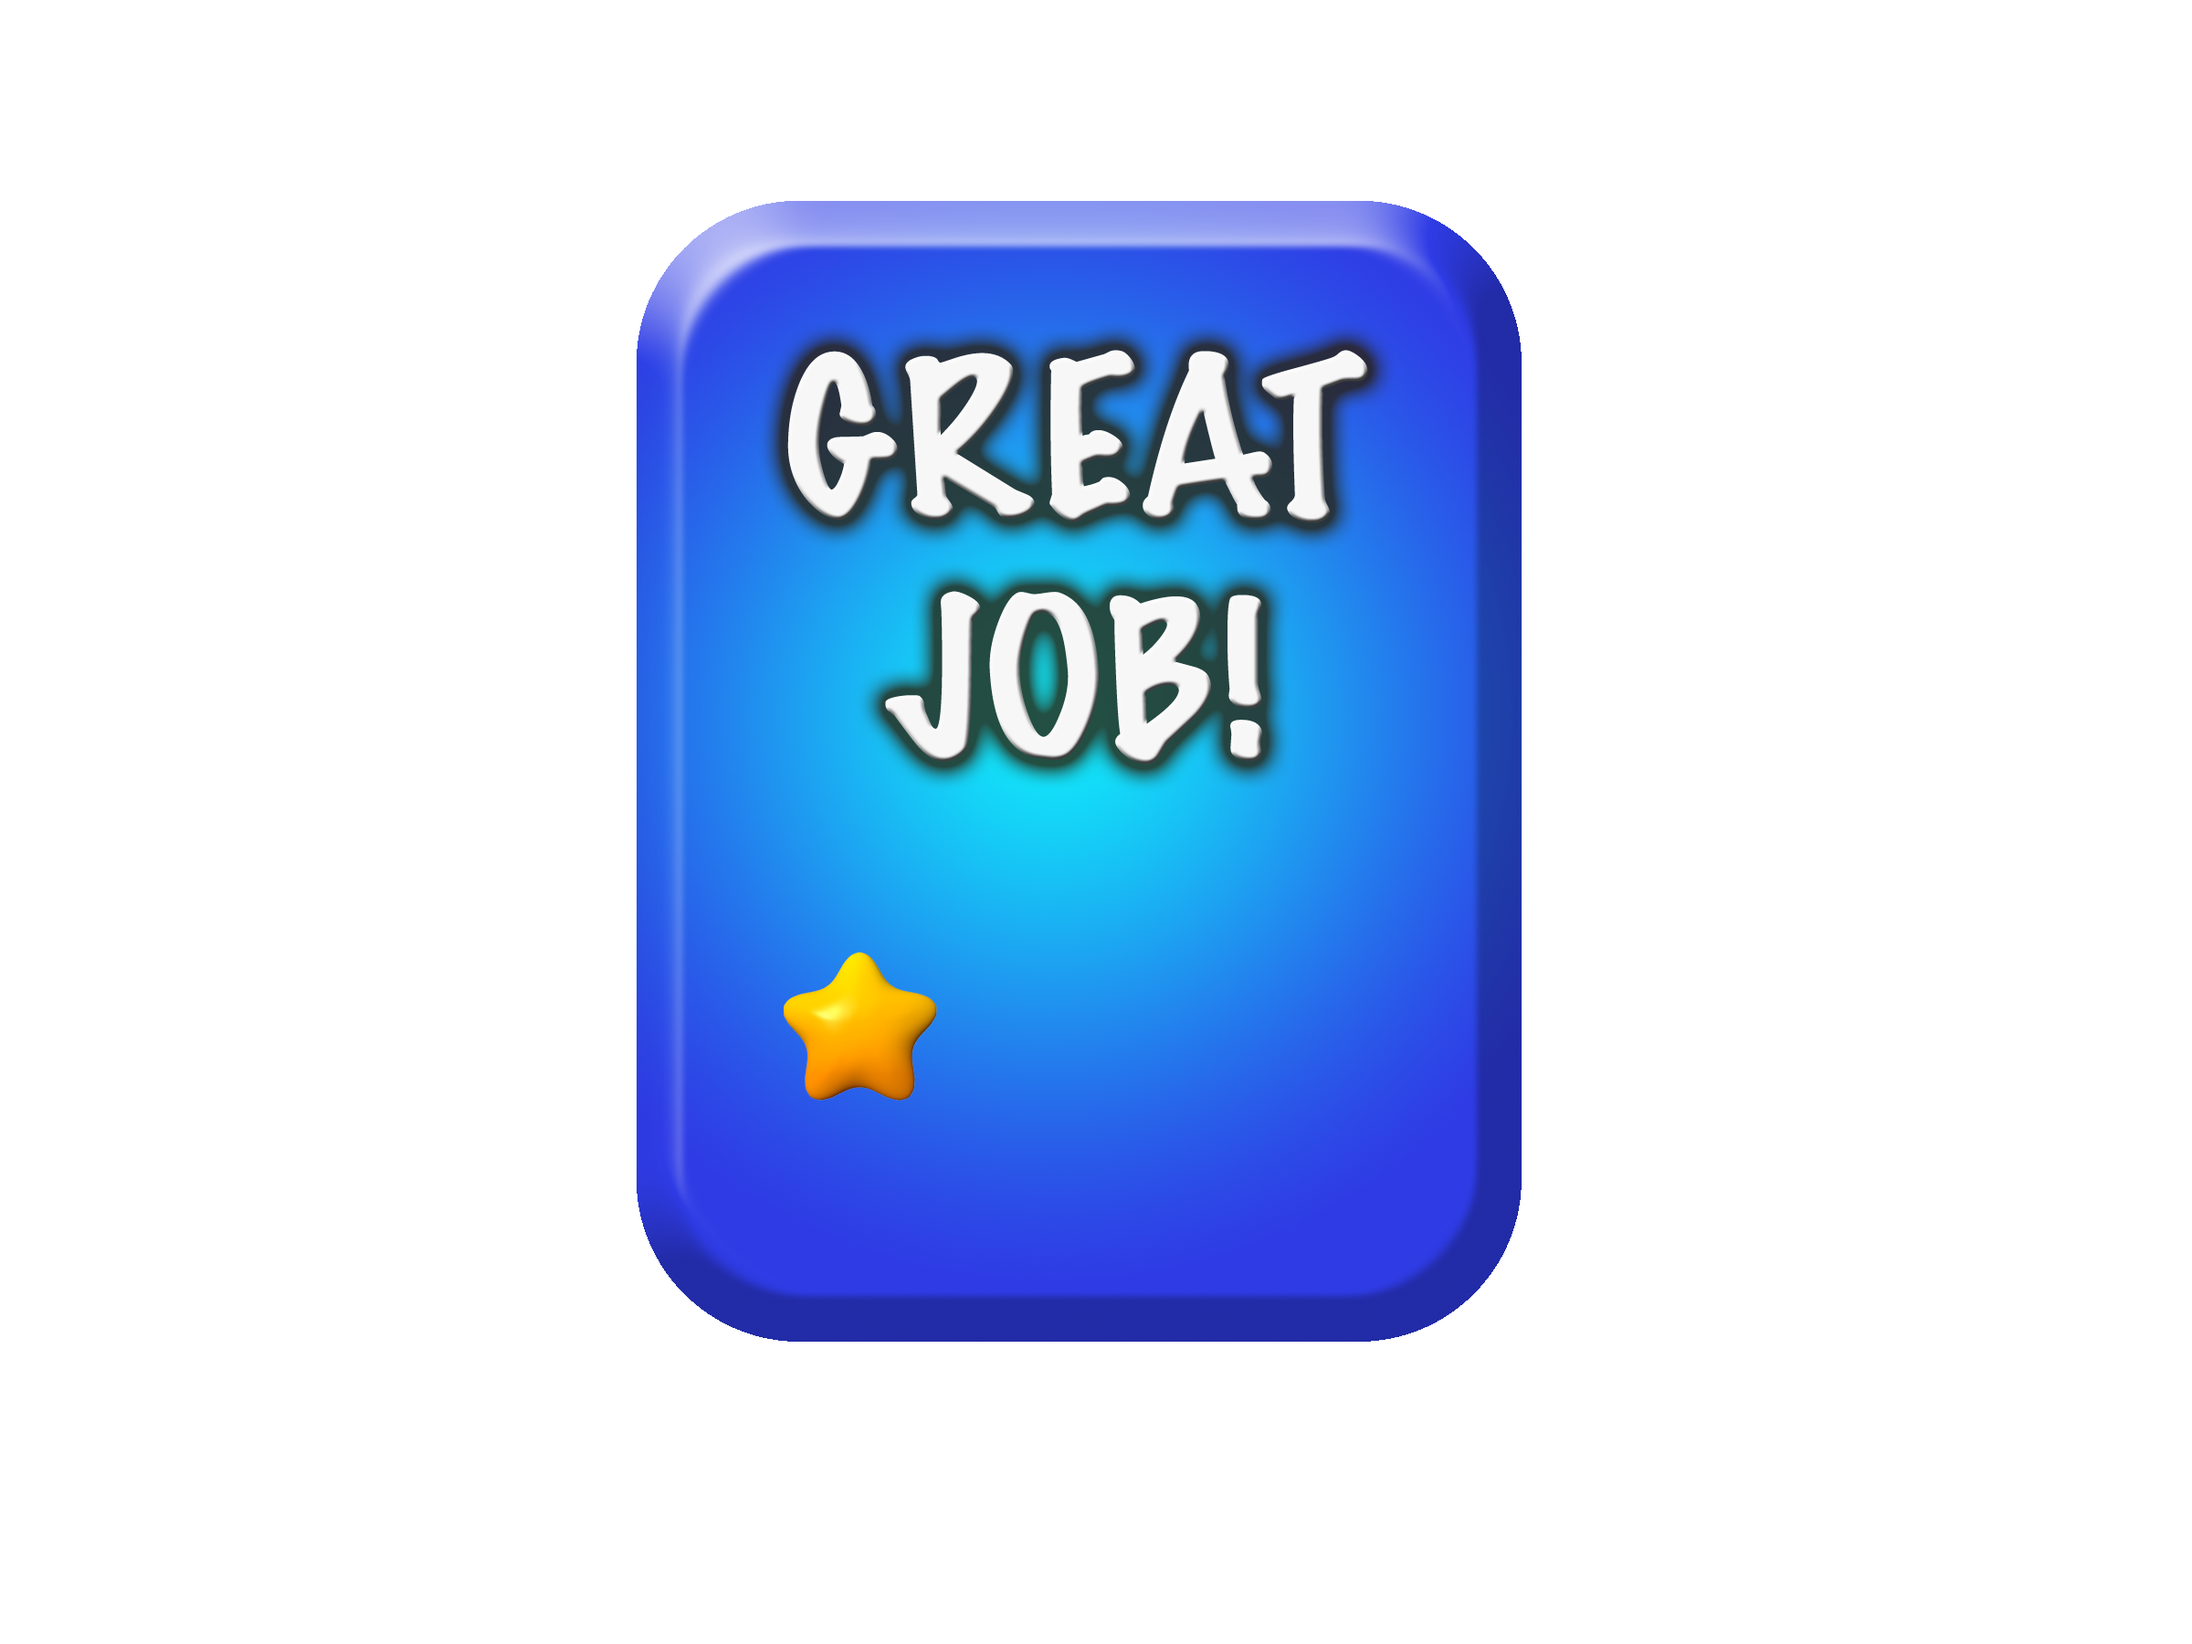
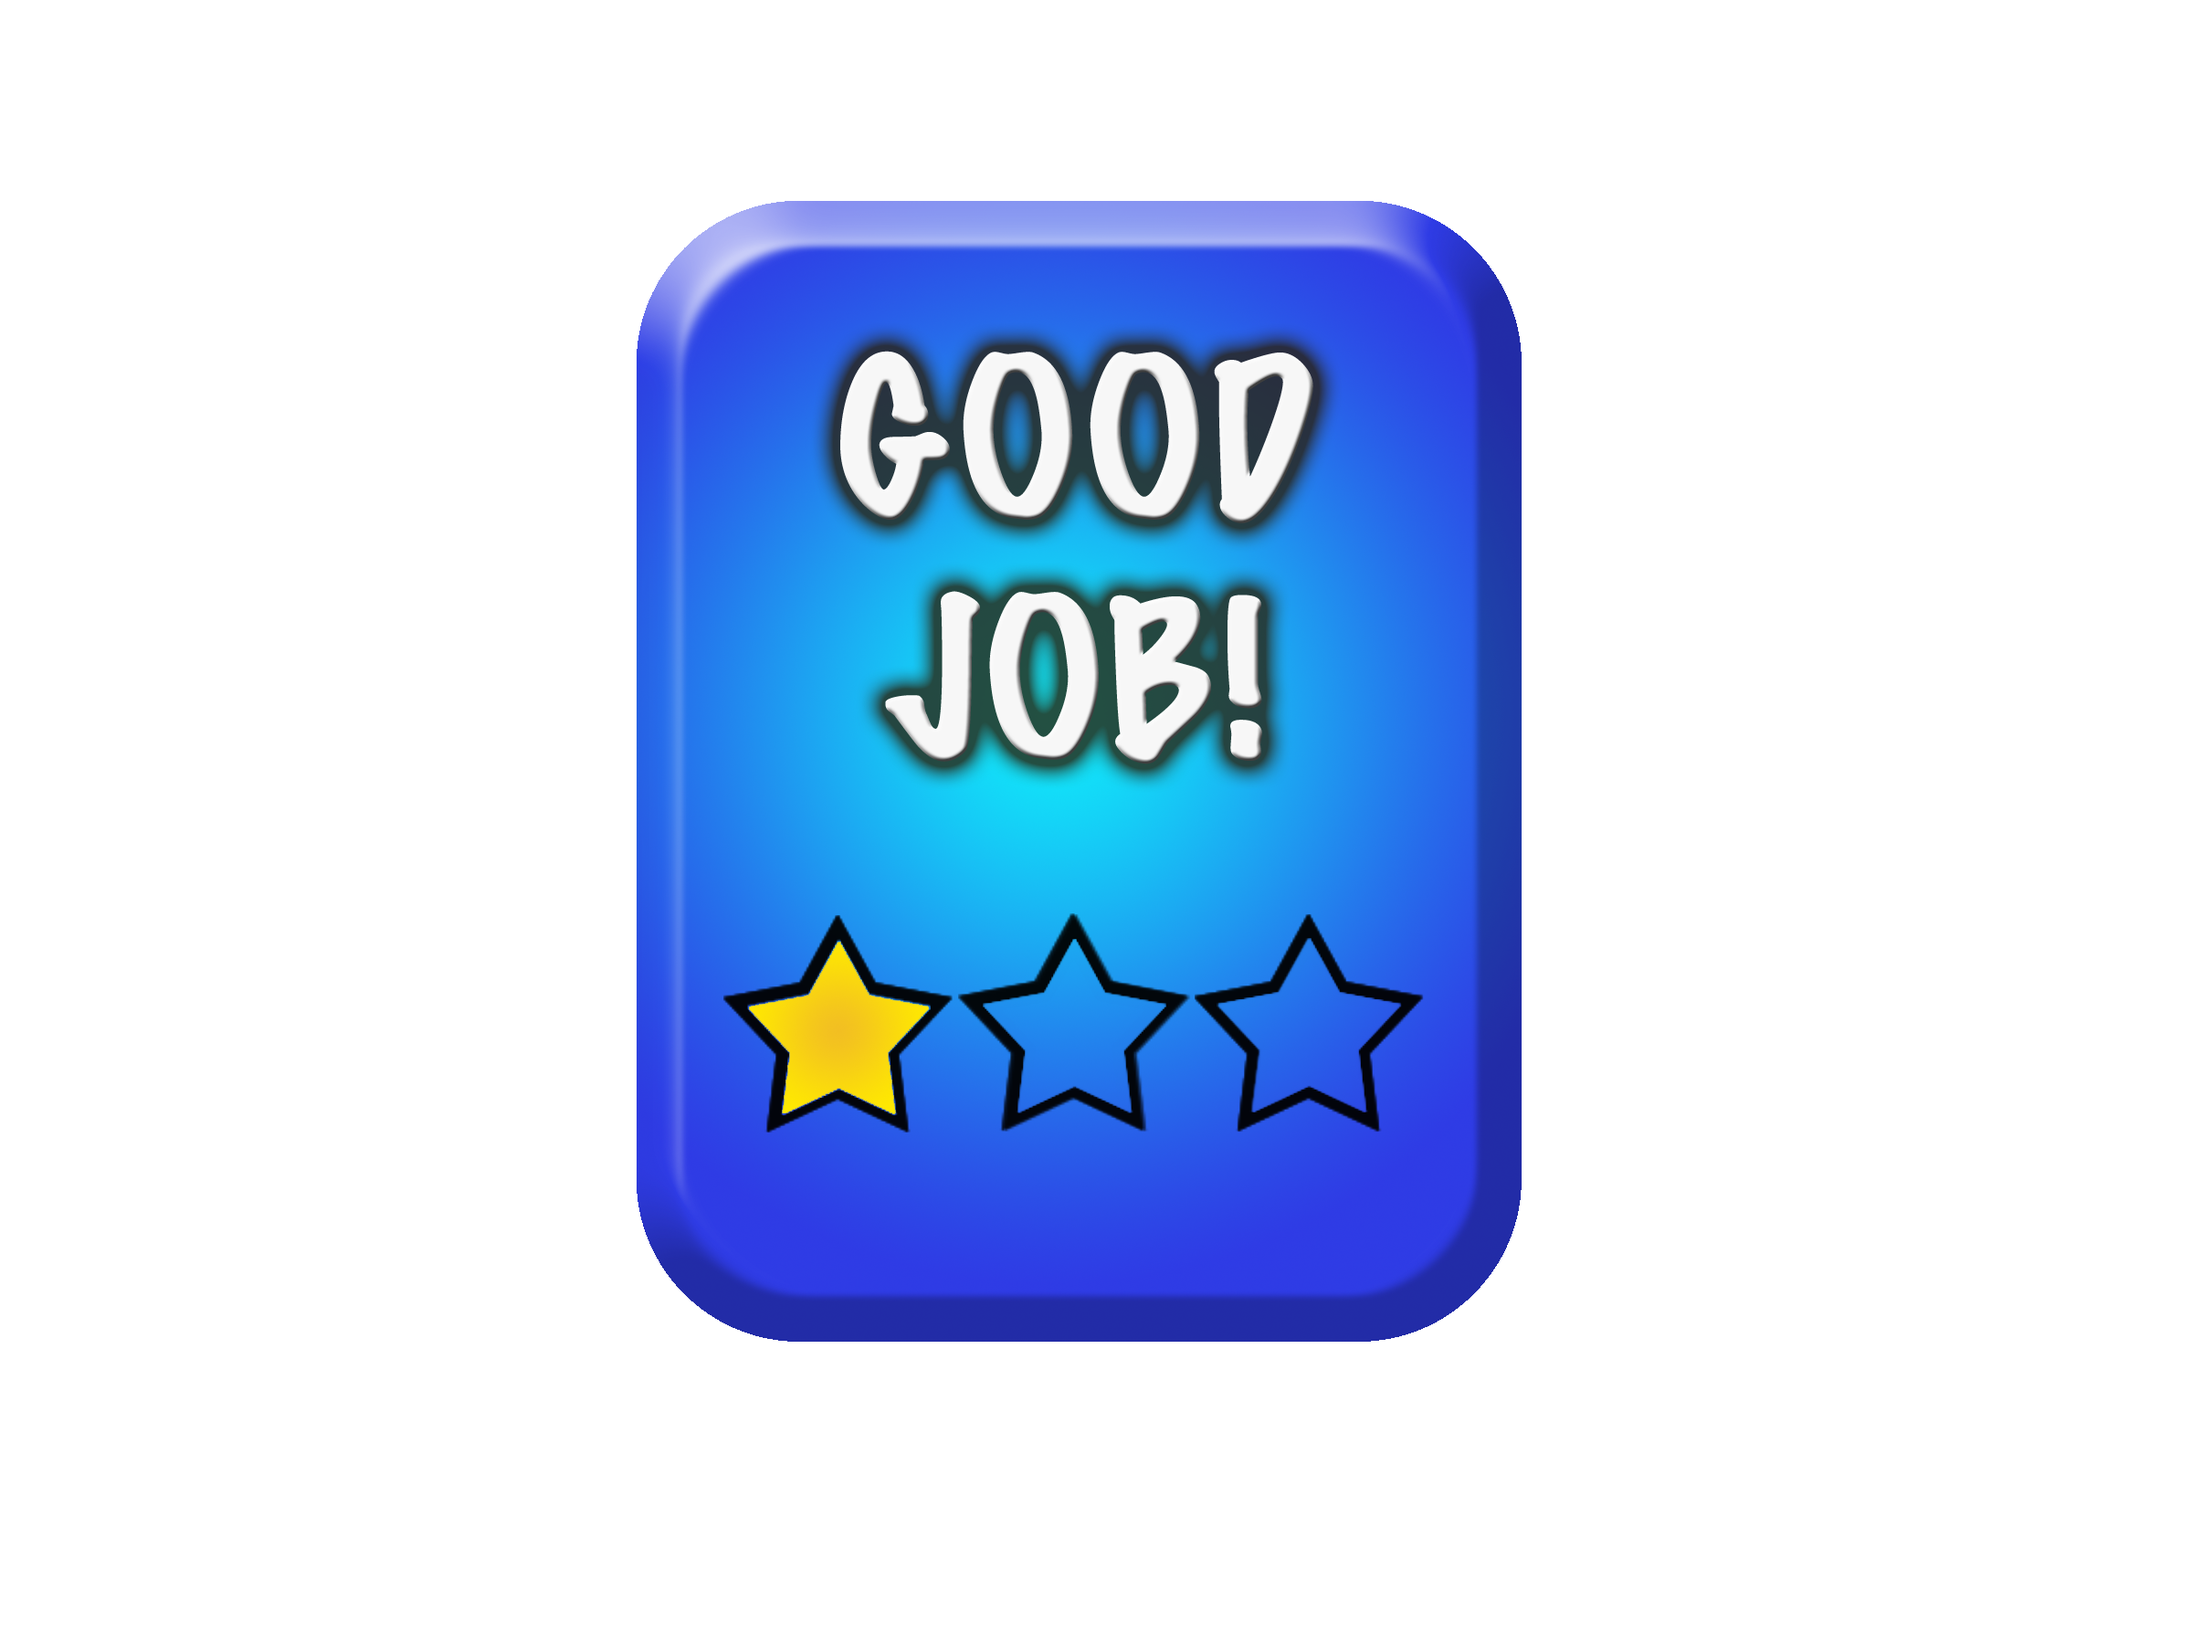
updated the level end buttons. included one for 0 stars if fewer than 7 hazards are found

Changed region(s): [[0.3438, 0.1867, 0.6562, 0.3422], [0.3125, 0.56, 0.6562, 0.6844]]

diff --git a/levels/livingRoom.js b/levels/livingRoom.js
@@ -165,10 +165,11 @@ var checkScore = function(msLeft){
   else if(score<390 & score>=200){
     $("#twoStars").css('visibility', 'visible');
   }
-  else if(score<200 & score>60){
-    $("#twoStars").css('visibility', 'visible');
+  else if(score<200 & score>=60){
+    $("#oneStar").css('visibility', 'visible');
   }
   else{
+    $("#noStars").css('visibility', 'visible');
     //add a no stars image
   }
   if($('#level').attr('name')=='livingroomone'){
@@ -186,7 +187,7 @@ var checkScore = function(msLeft){
   }
 
 }
-    countdown( "timer", 3, 30 );
+    countdown( "timer", 0, 30 );
 
 });
 function decrementCnt(draggable){

diff --git a/levels/livingRoom.html b/levels/livingRoom.html
@@ -44,6 +44,8 @@
 		<a href="menu.html"><img src="../images/miscImages/1star.png" id="oneStar" class="hideWin"></a>
 		<a href="menu.html"><img src="../images/miscImages/2stars.png" id="twoStars" class="hideWin"></a>
 		<a href="menu.html"><img src="../images/miscImages/3stars.png" id="threeStars" class="hideWin"></a>
+		<a href="menu.html"><img src="../images/miscImages/3stars.png" id="threeStars" class="hideWin"></a>
+		<a href="livingRoom.html"><img src="../images/miscImages/0stars.png" id="noStars" class="hideWin"></a>	
 		<a href="menu.html"> <img src="../images/miscImages/back.png" id="back" class="back"> </a>
 
 

diff --git a/levels/garage.html b/levels/garage.html
@@ -39,6 +39,7 @@
 	 		<a href="menu.html"><img src="../images/miscImages/1star.png" id="oneStar" class="hideWin"></a>
 			<a href="menu.html"><img src="../images/miscImages/2stars.png" id="twoStars" class="hideWin"></a>
 			<a href="menu.html"><img src="../images/miscImages/3stars.png" id="threeStars" class="hideWin"></a>
+			<a href="garage.html"><img src="../images/miscImages/0stars.png" id="noStars" class="hideWin"></a>	
 			<a href="menu.html"> <img src="../images/miscImages/back.png" id="back" class="back"> </a>
 
 

diff --git a/levels/kitchen.html b/levels/kitchen.html
@@ -45,6 +45,7 @@
 			<a href="menu.html"><img src="../images/miscImages/1star.png" id="oneStar" class="hideWin"></a>
 			<a href="menu.html"><img src="../images/miscImages/2stars.png" id="twoStars" class="hideWin"></a>
 			<a href="menu.html"><img src="../images/miscImages/3stars.png" id="threeStars" class="hideWin"></a>
+			<a href="kitchen.html"><img src="../images/miscImages/0stars.png" id="noStars" class="hideWin"></a>	
 			<a href="menu.html"> <img src="../images/miscImages/back.png" id="back" class="back"> </a>
 
 

diff --git a/stylesheets/index.css b/stylesheets/index.css
@@ -207,6 +207,14 @@ h1 {
 	height: 100%;
 	visibility: hidden;
 }
+#noStars {
+	position: fixed;
+	left: 0%;
+	top: 0%;
+	width: 100%;
+	height: 100%;
+	visibility: hidden;
+}
 
 #ramen {
 	position: fixed;
